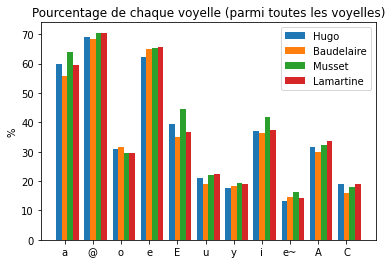
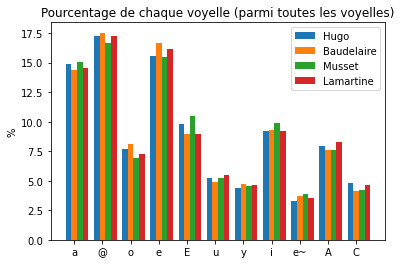
correction pourcentage voyelles

diff --git a/scripts/stats_voyelles/stats_voyelles.py b/scripts/stats_voyelles/stats_voyelles.py
@@ -11,6 +11,8 @@ from pathlib import Path
 import re 
 import matplotlib.pyplot as plt
 import numpy as np
+import os
+print(os.getcwd())
 
 liste_phonemes = ["a", "A", "b", "C", "k", "d", "e", "E", "f", "g", "H", "i", "j", "J", "t", "Z", "z", "e~", "w", "@", "s", "R", "2", "u", "y", "o", "O", "9", "v", "m", "n", "N", "S"]
 liste_e = ["@", "2", "9"]
@@ -20,7 +22,6 @@ liste_voyelles_dico = ["a", "@", "o", "e", "E", "u", "y", "i", "e~", "A", "C"]
 #Pourcentage par phonème
 def stats_phonemes(fichier):
                 dico_voyelles = {}
-                nb_pho_total = 0
                 for voyelle in liste_voyelles_dico :
                     dico_voyelles[voyelle] = 0
     
@@ -32,25 +33,24 @@ def stats_phonemes(fichier):
                             for phoneme in liste_voyelles :
                                 if  phoneme in liste_e and len(re.findall(phoneme, row[1])) != 0 :
                                     dico_voyelles["@"] += len(re.findall(phoneme, row[1]))
-                                    nb_pho_total += len(re.findall(phoneme, row[1]))
                                 elif  phoneme in liste_o and len(re.findall(phoneme, row[1])) != 0 :
                                     dico_voyelles["o"] += len(re.findall(phoneme, row[1]))
-                                    nb_pho_total += len(re.findall(phoneme, row[1]))
                                 elif  len(re.findall(phoneme, row[1])) != 0 :
                                     dico_voyelles[phoneme] += len(re.findall(phoneme, row[1]))
 
                                     
-    
+
+                print(dico_voyelles)
                 names = list(dico_voyelles.keys())
-                values = [round((v / nb_pho_total) * 100, 2) for v in dico_voyelles.values()]
+                values = [round((v / sum(dico_voyelles.values())) * 100, 2) for v in dico_voyelles.values()]
                 return names, values
 
 
                 
-Nhugo, Vhugo = stats_phonemes("../resultats/csv_transcriptions/hugo.csv")
-Nbaudelaire, Vbaudelaire = stats_phonemes("../resultats/csv_transcriptions/baudelaire.csv")
-Nmusset, Vmusset = stats_phonemes("../resultats/csv_transcriptions/musset.csv")
-Nlamartine, Vlamartine = stats_phonemes("../resultats/csv_transcriptions/lamartine.csv")
+Nhugo, Vhugo = stats_phonemes("../../resultats/csv_transcriptions/hugo.csv")
+Nbaudelaire, Vbaudelaire = stats_phonemes("../../resultats/csv_transcriptions/baudelaire.csv")
+Nmusset, Vmusset = stats_phonemes("../../resultats/csv_transcriptions/musset.csv")
+Nlamartine, Vlamartine = stats_phonemes("../../resultats/csv_transcriptions/lamartine.csv")
 
 
 N = 4
